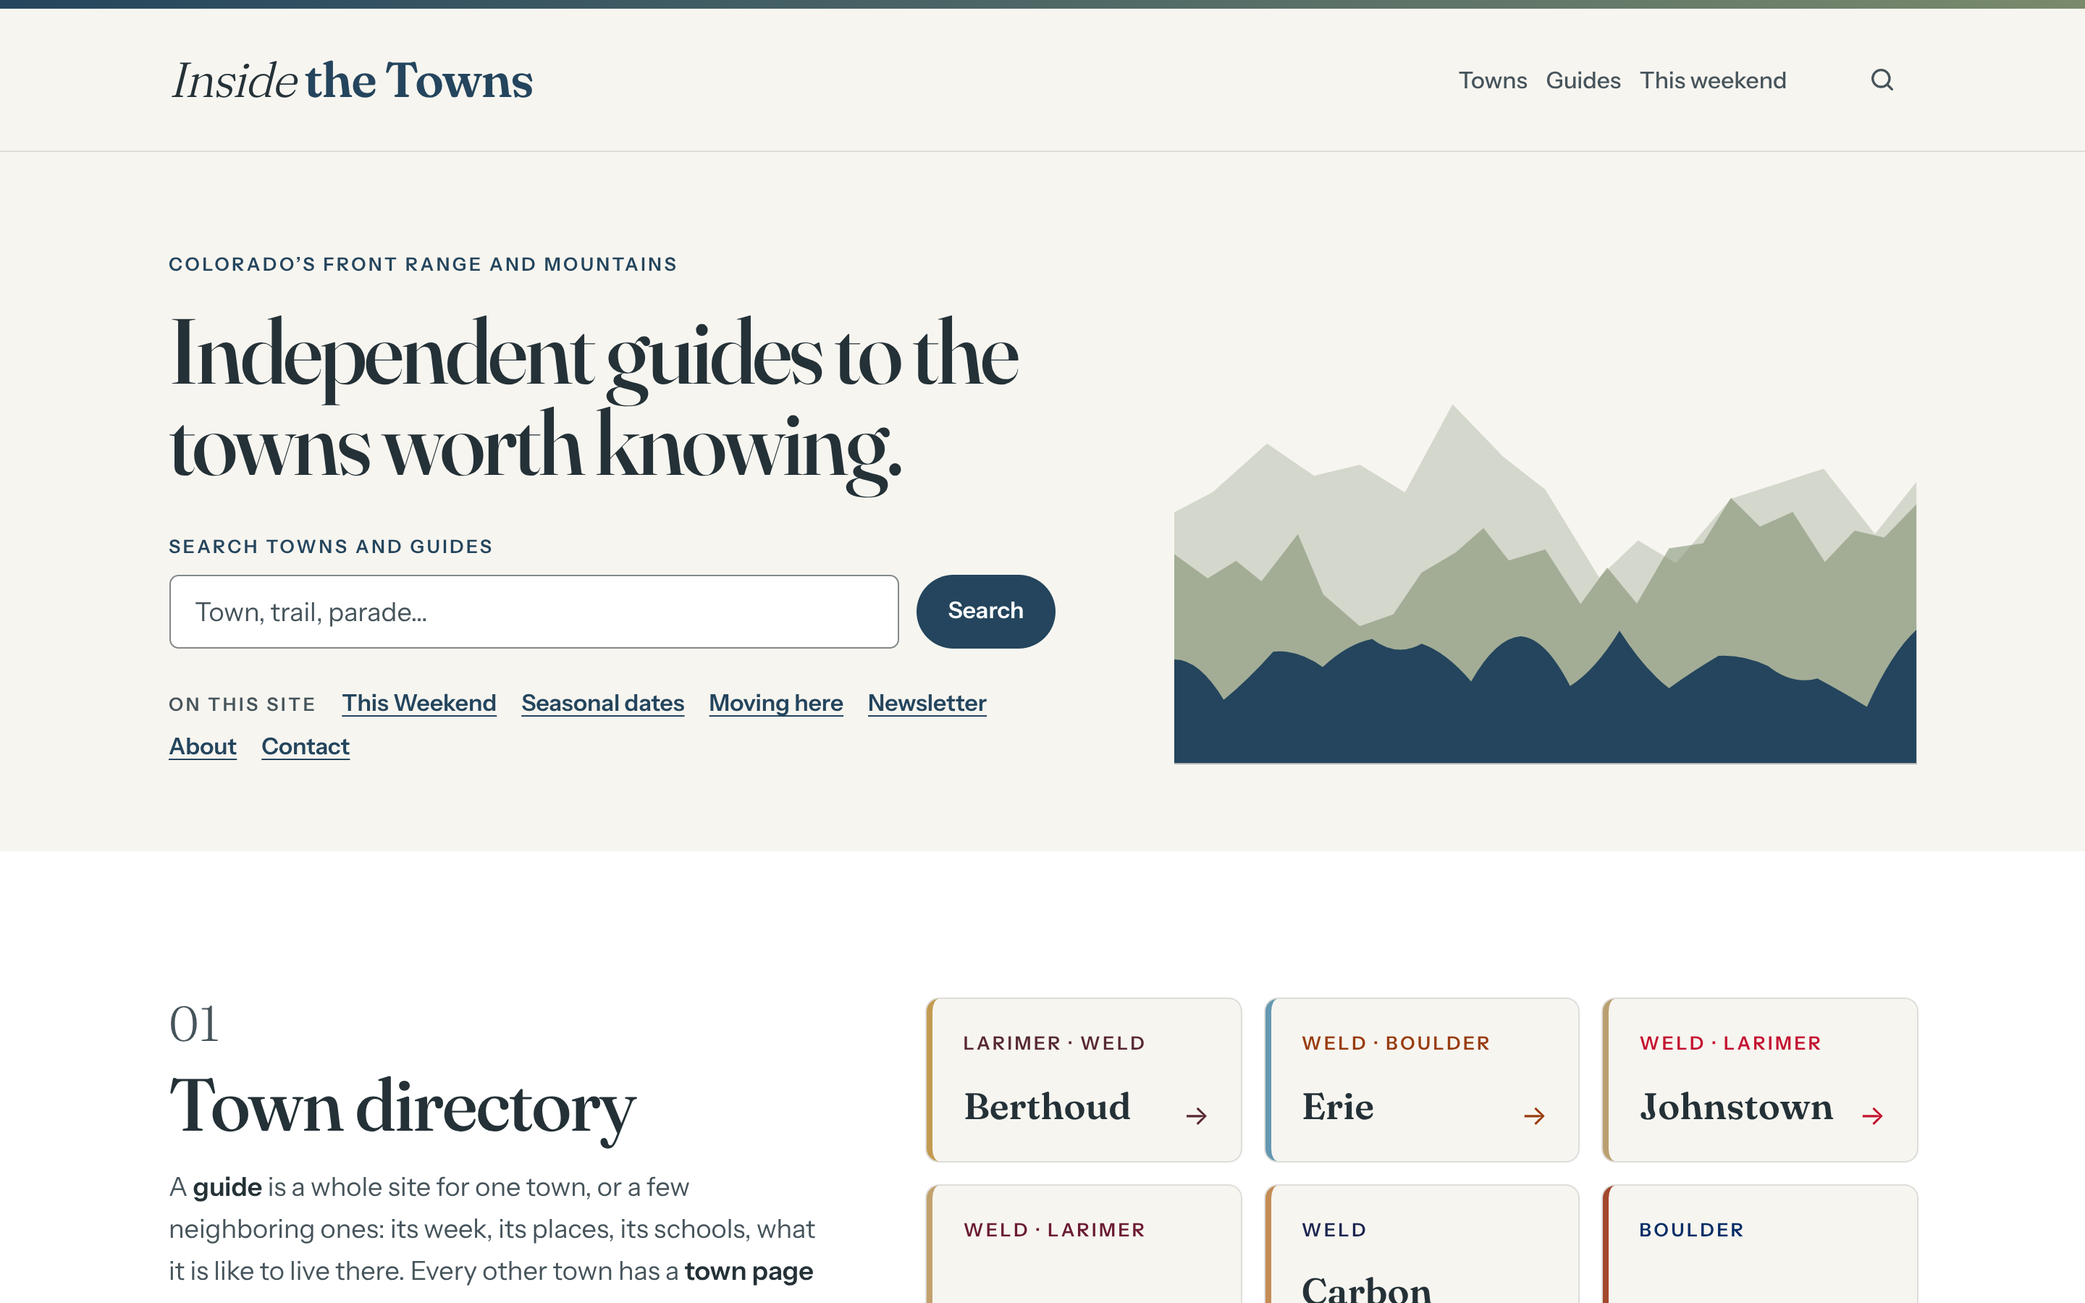
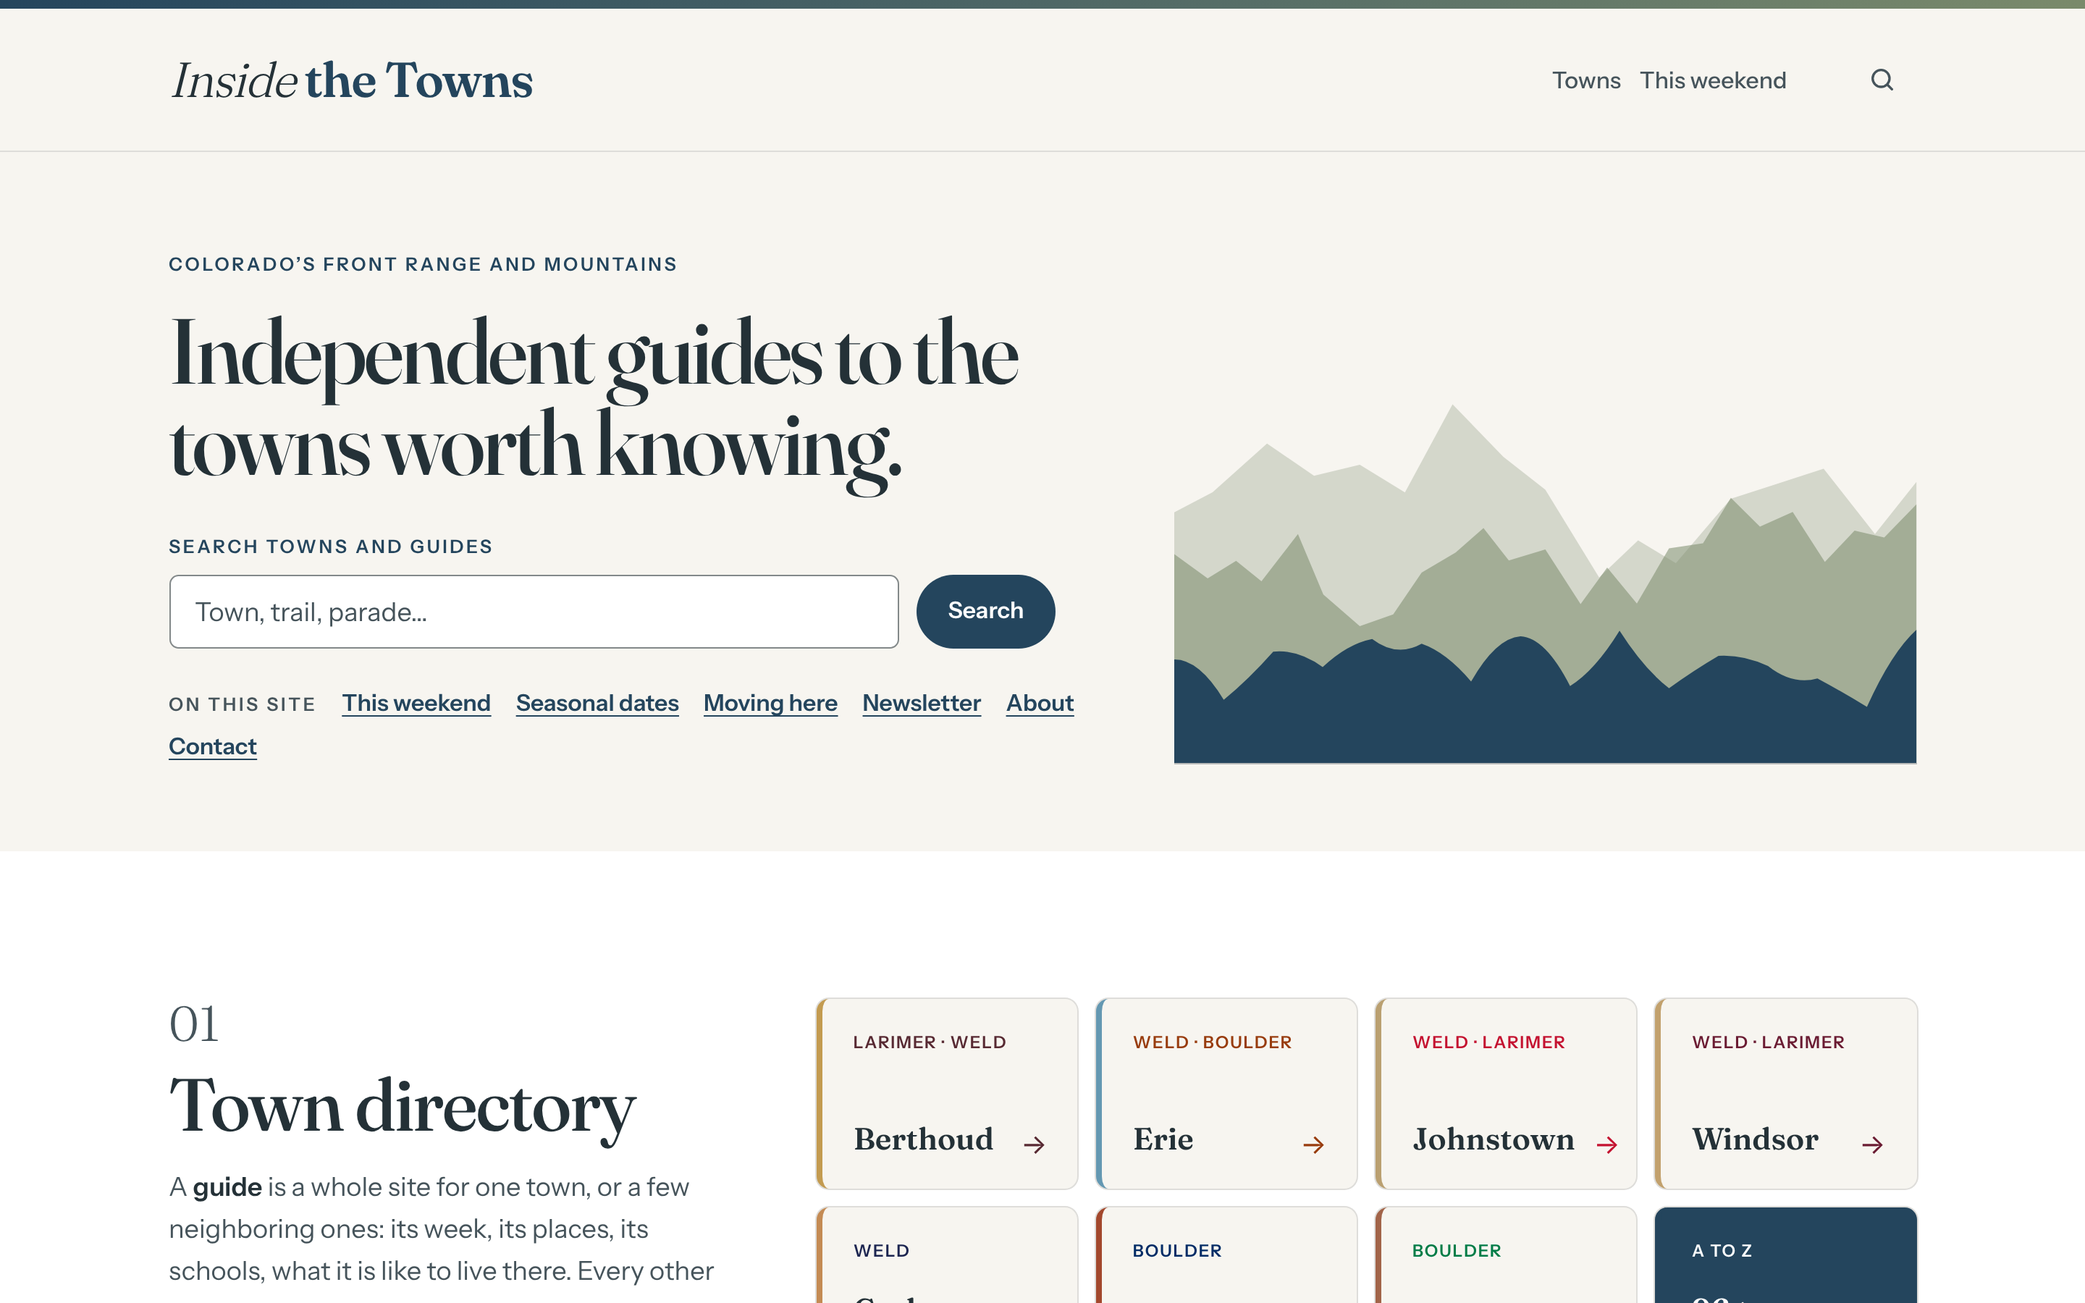
Hub home fixes: Guides hidden until live, four-up directory, signup in two columns
The owner's fixes brief of 13 November 2026, on the hub home only.

- Guides is drawn only when a card links to a live page: an index once
  the hub builds its page and has an article in its category, the
  featured article once a guide publishes it. No "coming soon" cards.
  The sections are numbered from what is drawn (Feature is 02 today),
  and the masthead's Guides link comes and goes with the section.
- Town directory: four across from md, two on a phone, every tile the
  same height; the counties on one line, set a little tighter, with an
  ellipsis only where even that does not fit (a 320px phone). The town
  pages tile's label is "A to Z", which fits on the line.
- The sections' two columns from xl, at one third and two thirds, so
  four tiles fit beside the title. Feature's number and heading stacked
  like the others.
- Signup: from xl the heading and line on the left, the form's card on
  the right; below xl the one card as before. NewsletterSignup takes
  `bare` (the form without its heading or card), used only here.
- "Sent every Thursday at 7 am." in place of the next-issue date.
- Feature: "19 of 20 towns' dates confirmed", counted by town.
- "This weekend" in sentence case in the hub's menu and on /advertise/.

Claude-Session: https://claude.ai/code/session_01EAS8nYFsScq3FEToQE1tKF

Changed region(s): [[0.0938, 0.7778, 0.9375, 1.0], [0.1875, 0.5289, 0.5312, 0.56], [0.0938, 0.56, 0.1562, 0.5911]]

diff --git a/src/lib/hub-home.ts b/src/lib/hub-home.ts
@@ -1,31 +1,30 @@
 /**
- * The hub's home page (the layout brief of 13 November 2026): what its
- * Guides section shows, decided from the content rather than written on
- * the page, so a tile turns from "coming soon" into a link the day its
- * pages exist and nobody edits the home page for it.
+ * The hub's home page (the layout brief of 13 November 2026, and the fixes
+ * brief the same day): what its Guides section shows and how the feature
+ * card counts, decided from the content rather than written on the page.
  *
- * The two article indexes, Camping and Ghost towns, are the hub's own:
- * each is live once content/hub/articles/ holds an article in its
- * category, and until then its tile says so and links nowhere (the brief:
- * the three tiles work even while the indexes are empty). The featured
- * slot is one article, named here, found by its title among every guide's
- * articles the day it is published.
+ * The Guides section lists only cards that link to a page that is built
+ * and has something on it, and is not drawn at all until one does (the
+ * fixes brief: no "coming soon" cards). Two kinds of card:
+ *
+ * - an article index, Camping or Ghost towns: the hub's own page, live
+ *   once the hub builds it (a route in src/integrations/town-routes.ts)
+ *   and content/hub/articles/ holds an article in its category;
+ * - the featured article, named here and found by its title among every
+ *   guide's published articles, on its guide's own domain.
  *
  * Plain functions over plain data, like src/lib/hub-towns.ts, so
  * test/hub-home.test.ts can hold them. Never imports astro:content.
  */
 
-/** A tile in the Guides section: a link where its pages exist, else "coming soon". */
+/** A card in the Guides section, always a link to a page that is built. */
 export interface HomeTile {
   /** The small label over the title: "Index", "Featured article". */
   eyebrow: string;
   title: string;
   /** One line under the title. */
   line: string;
-  /** Where the tile goes. Absent, the tile is not a link and says `note`. */
-  href?: string;
-  /** What a tile without a link says in the link's place. */
-  note?: string;
+  href: string;
 }
 
 /** The hub's article indexes, in the order the Guides section lists them. */
@@ -34,14 +33,8 @@ export const GUIDE_INDEXES: ReadonlyArray<{ category: string; label: string; pat
   { category: 'ghost-towns', label: 'Ghost towns', path: '/ghost-towns/', line: 'The townsites that emptied, and what is left to see.' },
 ];
 
-/**
- * The featured article: the third tile. Found by title among the network's
- * articles once it is published; until then the tile carries its title and
- * "coming soon".
- */
+/** The featured article, found by title among the network's published articles. */
 export const FEATURED_ARTICLE = { title: 'Sundance from the towns next door', match: /\bsundance\b/i } as const;
-
-export const COMING_SOON = 'Coming soon';
 
 /** An article as the resolver reads it: the hub's own carries no domain. */
 export interface ArticleRef {
@@ -58,37 +51,74 @@ export function articleHref(article: Pick<ArticleRef, 'slug' | 'domain'>): strin
   return article.domain ? `https://${article.domain}/articles/${article.slug}/` : `/articles/${article.slug}/`;
 }
 
-/** The index tiles, each a link once the hub has an article in its category. */
-export function indexTiles(hubArticles: ReadonlyArray<Pick<ArticleRef, 'category'>>): HomeTile[] {
-  return GUIDE_INDEXES.map((index) => {
-    const live = hubArticles.some((a) => a.category === index.category);
-    return { eyebrow: 'Index', title: index.label, line: index.line, ...(live ? { href: index.path } : { note: COMING_SOON }) };
-  });
+/** "/camping/" and "/camping" name the same page. */
+const bare = (path: string) => path.replace(/\/$/, '');
+
+/**
+ * The index cards that are live: the hub builds the index's page
+ * (`routes`, the hub's route patterns) and holds an article in its
+ * category. Neither alone: a route with nothing in it is an empty page,
+ * and an article with no index page has nowhere to be listed.
+ */
+export function indexTiles(hubArticles: ReadonlyArray<Pick<ArticleRef, 'category'>>, routes: ReadonlyArray<string>): HomeTile[] {
+  const built = new Set(routes.map(bare));
+  return GUIDE_INDEXES.filter((index) => built.has(bare(index.path)) && hubArticles.some((a) => a.category === index.category)).map((index) => ({
+    eyebrow: 'Index',
+    title: index.label,
+    line: index.line,
+    href: index.path,
+  }));
 }
 
-/** The featured tile: the named article where one of the network's articles carries its title, else its title and "coming soon". */
-export function featuredTile(articles: ReadonlyArray<ArticleRef>): HomeTile {
-  const found = articles.find((a) => FEATURED_ARTICLE.match.test(a.title));
-  if (!found) return { eyebrow: 'Featured article', title: FEATURED_ARTICLE.title, line: 'One story from across the towns, when it is published.', note: COMING_SOON };
+/** The featured card, where one of the network's published articles carries its title; else none. */
+export function featuredTile(articles: ReadonlyArray<ArticleRef>): HomeTile | undefined {
+  const found = articles.find((a) => a.domain && FEATURED_ARTICLE.match.test(a.title));
+  if (!found) return undefined;
   return { eyebrow: 'Featured article', title: found.title, line: found.excerpt ?? '', href: articleHref(found) };
 }
 
-/** The three tiles of the Guides section, in the brief's order: the two indexes, then the feature. */
-export function guideTiles(hubArticles: ReadonlyArray<Pick<ArticleRef, 'category'>>, articles: ReadonlyArray<ArticleRef>): HomeTile[] {
-  return [...indexTiles(hubArticles), featuredTile(articles)];
+/**
+ * The Guides section's cards, in the brief's order: the indexes, then the
+ * feature. Only live ones; empty, the section is not drawn.
+ */
+export function guideTiles(hubArticles: ReadonlyArray<Pick<ArticleRef, 'category'>>, articles: ReadonlyArray<ArticleRef>, routes: ReadonlyArray<string>): HomeTile[] {
+  const featured = featuredTile(articles);
+  return [...indexTiles(hubArticles, routes), ...(featured ? [featured] : [])];
 }
 
 /**
- * The feature card's one line of facts about a season page: how many dates
- * the organizers have confirmed, across how many towns, and the next one.
+ * The feature card's count, by town (the fixes brief: "19 of 20 towns'
+ * dates confirmed"): how many of the towns on the season page have a date
+ * the organizer has confirmed and that is still ahead, out of every town
+ * on it. A row with no town of its own (a shared or statewide record) is
+ * in neither number.
  */
+export function townsConfirmed(rows: ReadonlyArray<{ town?: string; confirmed: boolean }>): { confirmed: number; towns: number } {
+  const towns = new Set<string>();
+  const confirmed = new Set<string>();
+  for (const row of rows) {
+    if (!row.town) continue;
+    towns.add(row.town);
+    if (row.confirmed) confirmed.add(row.town);
+  }
+  return { confirmed: confirmed.size, towns: towns.size };
+}
+
+/** "19 of 20 towns’ dates confirmed. Next: …" */
 export function seasonFeatureLine(counts: { confirmed: number; towns: number }, next?: string): string {
-  const dates = `${counts.confirmed} ${counts.confirmed === 1 ? 'date' : 'dates'} confirmed`;
-  const towns = counts.towns > 0 ? ` across ${counts.towns} ${counts.towns === 1 ? 'town' : 'towns'}` : '';
-  return next ? `${dates}${towns}. Next: ${next}.` : `${dates}${towns}.`;
+  const count = `${counts.confirmed} of ${counts.towns} ${counts.towns === 1 ? 'town’s' : 'towns’'} dates confirmed.`;
+  return next ? `${count} Next: ${next}.` : count;
 }
 
 /** The names the home's search box suggests as they are typed: the guides and the town pages, A to Z, no name twice. */
 export function searchSuggestions(...lists: ReadonlyArray<ReadonlyArray<{ name: string }>>): string[] {
   return [...new Set(lists.flat().map((t) => t.name))].sort((a, b) => a.localeCompare(b));
+}
+
+/** The numbers over the home's sections, "01", "02", …, counting only the sections that are drawn. */
+export function sectionNumbers<K extends string>(shown: ReadonlyArray<readonly [key: K, drawn: boolean]>): Partial<Record<K, string>> {
+  const numbers: Partial<Record<K, string>> = {};
+  let n = 0;
+  for (const [key, drawn] of shown) if (drawn) numbers[key] = String(++n).padStart(2, '0');
+  return numbers;
 }

diff --git a/test/hub-home.test.ts b/test/hub-home.test.ts
@@ -1,49 +1,42 @@
 /**
- * The hub home's Guides section and feature line (src/lib/hub-home.ts):
- * the brief of 13 November 2026 asks that the three tiles work while the
- * article indexes are empty, showing "coming soon", and turn into links
- * from the content alone.
+ * The hub home's Guides section, feature line and section numbers
+ * (src/lib/hub-home.ts). The fixes brief of 13 November 2026: the Guides
+ * section is not drawn until a card links to a live page, it carries only
+ * such cards, and the sections after it are numbered from what is drawn.
  */
 import assert from 'node:assert/strict';
 import { test } from 'node:test';
-import { COMING_SOON, FEATURED_ARTICLE, GUIDE_INDEXES, articleHref, featuredTile, guideTiles, indexTiles, searchSuggestions, seasonFeatureLine } from '../src/lib/hub-home.ts';
+import { FEATURED_ARTICLE, articleHref, featuredTile, guideTiles, indexTiles, searchSuggestions, sectionNumbers, seasonFeatureLine, townsConfirmed } from '../src/lib/hub-home.ts';
 
-test('with no articles, every tile is "coming soon" and none is a link', () => {
-  const tiles = guideTiles([], []);
-  assert.equal(tiles.length, 3);
-  assert.deepEqual(tiles.map((t) => t.title), ['Camping', 'Ghost towns', FEATURED_ARTICLE.title]);
-  for (const t of tiles) {
-    assert.equal(t.href, undefined, `${t.title} links nowhere until its pages exist`);
-    assert.equal(t.note, COMING_SOON);
-  }
+const HUB_ROUTES = ['/', '/this-weekend', '/towns', '/[town]'];
+const sundance = { title: FEATURED_ARTICLE.title, category: 'culture', slug: 'sundance-from-the-towns-next-door', excerpt: 'The festival moves to Boulder.', domain: 'insidelyons.com' };
+
+test('with nothing published, there are no cards, so no section', () => {
+  assert.deepEqual(guideTiles([], [], HUB_ROUTES), []);
 });
 
-test('an index is a link once the hub has an article in its category', () => {
-  const tiles = indexTiles([{ category: 'camping' }, { category: 'other' }]);
-  assert.equal(tiles[0]!.href, '/camping/');
-  assert.equal(tiles[0]!.note, undefined);
-  assert.equal(tiles[1]!.href, undefined, 'no ghost-towns article, no link');
-  assert.equal(tiles[1]!.note, COMING_SOON);
+test('an index needs both its page built and an article in its category', () => {
+  assert.deepEqual(indexTiles([{ category: 'camping' }], HUB_ROUTES), [], 'an article, but no /camping/ page');
+  assert.deepEqual(indexTiles([], [...HUB_ROUTES, '/camping']), [], 'a page, but nothing in it');
+  const tiles = indexTiles([{ category: 'camping' }, { category: 'ghost-towns' }], [...HUB_ROUTES, '/camping']);
+  assert.deepEqual(tiles.map((t) => t.href), ['/camping/'], 'Ghost towns has articles and no page');
 });
 
-test('every index path has a trailing slash, as every link on the sites does', () => {
-  for (const index of GUIDE_INDEXES) assert.match(index.path, /^\/[a-z-]+\/$/);
+test('only live cards are listed, indexes first, then the feature', () => {
+  const tiles = guideTiles([{ category: 'ghost-towns' }], [sundance], [...HUB_ROUTES, '/ghost-towns/']);
+  assert.deepEqual(tiles.map((t) => t.title), ['Ghost towns', FEATURED_ARTICLE.title]);
+  for (const t of tiles) assert.ok(t.href, `${t.title} is a link`);
 });
 
-test('the featured tile finds its article by title and links to it on its guide', () => {
-  const tile = featuredTile([
-    { title: 'Carter Lake: the permit and the launch', category: 'outdoors', slug: 'carter-lake', domain: 'insideberthoud.com' },
-    { title: 'Sundance from the towns next door', category: 'culture', slug: 'sundance-from-the-towns-next-door', excerpt: 'The festival moves to Boulder.', domain: 'insidelyons.com' },
-  ]);
-  assert.equal(tile.href, 'https://insidelyons.com/articles/sundance-from-the-towns-next-door/');
-  assert.equal(tile.title, 'Sundance from the towns next door');
-  assert.equal(tile.line, 'The festival moves to Boulder.');
-  assert.equal(tile.note, undefined);
+test('the featured card finds its article by title and links to it on its guide', () => {
+  const tile = featuredTile([{ title: 'Carter Lake: the permit and the launch', category: 'outdoors', slug: 'carter-lake', domain: 'insideberthoud.com' }, sundance]);
+  assert.equal(tile?.href, 'https://insidelyons.com/articles/sundance-from-the-towns-next-door/');
+  assert.equal(tile?.line, 'The festival moves to Boulder.');
 });
 
-test('the featured tile does not match "Sundance" inside another word', () => {
-  const tile = featuredTile([{ title: 'The Sundancer bakery opens', category: 'food', slug: 'sundancer', domain: 'insideerie.com' }]);
-  assert.equal(tile.href, undefined);
+test('the featured card is not drawn for "Sundance" inside another word, or for an article with no guide page', () => {
+  assert.equal(featuredTile([{ title: 'The Sundancer bakery opens', category: 'food', slug: 'sundancer', domain: 'insideerie.com' }]), undefined);
+  assert.equal(featuredTile([{ ...sundance, domain: undefined }]), undefined);
 });
 
 test("a hub article's page is on the hub, a guide's on its domain", () => {
@@ -51,10 +44,26 @@ test("a hub article's page is on the hub, a guide's on its domain", () => {
   assert.equal(articleHref({ slug: 'carter-lake', domain: 'insideberthoud.com' }), 'https://insideberthoud.com/articles/carter-lake/');
 });
 
-test('the feature line counts dates and towns in words that agree with their numbers', () => {
-  assert.equal(seasonFeatureLine({ confirmed: 12, towns: 9 }, 'Longmont Lights · Nov 28'), '12 dates confirmed across 9 towns. Next: Longmont Lights · Nov 28.');
-  assert.equal(seasonFeatureLine({ confirmed: 1, towns: 1 }), '1 date confirmed across 1 town.');
-  assert.equal(seasonFeatureLine({ confirmed: 0, towns: 0 }), '0 dates confirmed.');
+test('the feature counts towns, not dates: a town with two rows is one town', () => {
+  const counts = townsConfirmed([
+    { town: 'Estes Park', confirmed: true },
+    { town: 'Estes Park', confirmed: false },
+    { town: 'Lyons', confirmed: false },
+    { town: 'Berthoud', confirmed: true },
+    { confirmed: true },
+  ]);
+  assert.deepEqual(counts, { confirmed: 2, towns: 3 });
+});
+
+test('the feature line reads "19 of 20 towns’ dates confirmed."', () => {
+  assert.equal(seasonFeatureLine({ confirmed: 19, towns: 20 }), '19 of 20 towns’ dates confirmed.');
+  assert.equal(seasonFeatureLine({ confirmed: 19, towns: 20 }, 'Catch the Glow Parade, Estes Park · Fri, Nov 27'), '19 of 20 towns’ dates confirmed. Next: Catch the Glow Parade, Estes Park · Fri, Nov 27.');
+  assert.equal(seasonFeatureLine({ confirmed: 1, towns: 1 }), '1 of 1 town’s dates confirmed.');
+});
+
+test('sections are numbered from what is drawn: no Guides, and the Feature is 02', () => {
+  assert.deepEqual(sectionNumbers([['towns', true], ['guides', false], ['feature', true]] as const), { towns: '01', feature: '02' });
+  assert.deepEqual(sectionNumbers([['towns', true], ['guides', true], ['feature', true]] as const), { towns: '01', guides: '02', feature: '03' });
 });
 
 test('the search suggestions are every name once, A to Z', () => {

diff --git a/src/integrations/town-routes.ts b/src/integrations/town-routes.ts
@@ -178,7 +178,8 @@ function hasPublishedProfile(dir: string): boolean {
     .some((f) => /^status:\s*"?published"?\s*$/m.test(readFileSync(join(dir, f), 'utf8')));
 }
 
-const HUB_ROUTES: Array<[pattern: string, file: string]> = [
+/** Exported for the hub's home, which lists an index only once the hub builds its page (src/lib/hub-home.ts). */
+export const HUB_ROUTES: Array<[pattern: string, file: string]> = [
   ['/', 'index.astro'],
   ['/this-weekend', 'this-weekend.astro'],
   ['/moving', 'moving.astro'],

diff --git a/src/config/towns/hub.ts b/src/config/towns/hub.ts
@@ -77,7 +77,7 @@ export const hub: HubConfig = {
   // direction the same day (the follow-up audit asked who is accountable).
   publisher: { name: 'Lerner Works', url: 'https://lernerworks.com' },
   nav: [
-    { label: 'This Weekend', href: '/this-weekend/' },
+    { label: 'This weekend', href: '/this-weekend/' },
     { label: 'Moving here', href: '/moving/' },
     { label: 'Newsletter', href: '/newsletter/' },
     { label: 'Towns', href: '/#towns' },
